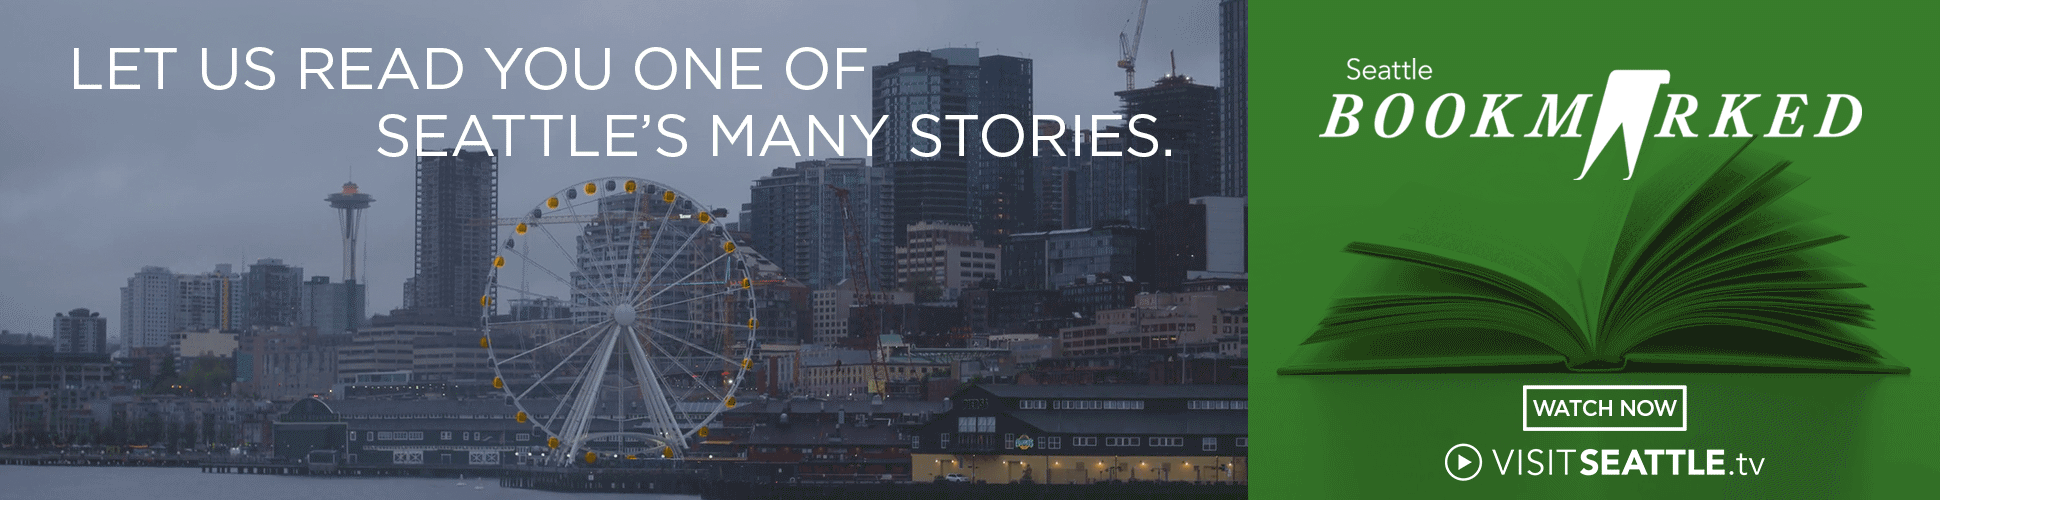
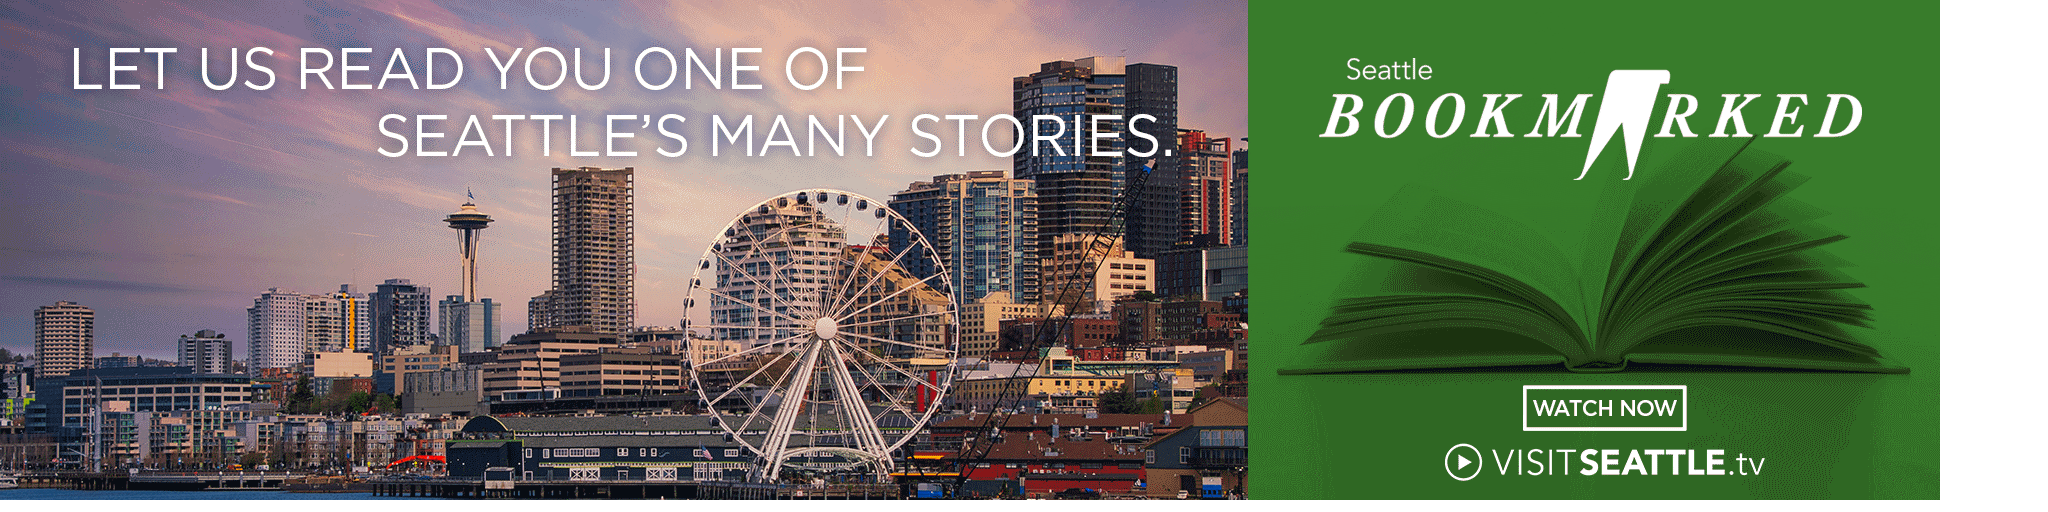
Add files via upload

diff --git a/728x90-wheel/VS_Bookmarked_Wheel_728x90.js b/728x90-wheel/VS_Bookmarked_Wheel_728x90.js
@@ -3,7 +3,7 @@
 var p; // shortcut to reference prototypes
 var lib={};var ss={};var img={};
 lib.ssMetadata = [
-		{name:"VS_Bookmarked_Wheel_728x90_atlas_P_1", frames: [[0,0,728,90],[0,92,728,90]]},
+		{name:"VS_Bookmarked_Wheel_728x90_atlas_P_1", frames: [[0,0,728,90]]},
 		{name:"VS_Bookmarked_Wheel_728x90_atlas_NP_1", frames: [[0,0,444,250]]}
 ];
 
@@ -28,16 +28,9 @@ lib.ssMetadata = [
 
 
 
-(lib._728x90cityscape = function() {
-	this.initialize(ss["VS_Bookmarked_Wheel_728x90_atlas_P_1"]);
-	this.gotoAndStop(0);
-}).prototype = p = new cjs.Sprite();
-
-
-
 (lib._728x90wheel = function() {
 	this.initialize(ss["VS_Bookmarked_Wheel_728x90_atlas_P_1"]);
-	this.gotoAndStop(1);
+	this.gotoAndStop(0);
 }).prototype = p = new cjs.Sprite();
 
 
@@ -123,7 +116,7 @@ if (reversed == null) { reversed = false; }
 	mask.setTransform(592,45);
 
 	// R_jpg
-	this.instance = new lib._728x90cityscape();
+	this.instance = new lib._728x90wheel();
 
 	var maskedShapeInstanceList = [this.instance];
 
@@ -135,12 +128,12 @@ if (reversed == null) { reversed = false; }
 
 	// flare
 	this.instance_1 = new lib.flare();
-	this.instance_1.setTransform(168.85,49.5,0.7505,0.7505);
+	this.instance_1.setTransform(-51.15,49.5,0.7505,0.7505);
 	this.instance_1.alpha = 0;
 	this.instance_1.compositeOperation = "screen";
 	this.instance_1._off = true;
 
-	this.timeline.addTween(cjs.Tween.get(this.instance_1).wait(29).to({_off:false},0).wait(1).to({x:195.1197,alpha:0.0089},0).wait(1).to({x:221.3893,alpha:0.0239},0).wait(1).to({x:247.6589,alpha:0.0511},0).wait(1).to({x:273.9286,alpha:0.1021},0).wait(1).to({x:300.1982,alpha:0.193},0).wait(1).to({x:326.4679,alpha:0.3307},0).wait(1).to({x:352.7,alpha:0.5},0).to({x:562.85,alpha:0},7).to({_off:true},1).wait(30).to({_off:false,x:168.85},0).wait(1).to({x:195.1197,alpha:0.0089},0).wait(1).to({x:221.3893,alpha:0.0239},0).wait(1).to({x:247.6589,alpha:0.0511},0).wait(1).to({x:273.9286,alpha:0.1021},0).wait(1).to({x:300.1982,alpha:0.193},0).wait(1).to({x:326.4679,alpha:0.3307},0).wait(1).to({x:352.7,alpha:0.5},0).to({x:562.85,alpha:0},7).to({_off:true},1).wait(21));
+	this.timeline.addTween(cjs.Tween.get(this.instance_1).wait(29).to({_off:false},0).wait(1).to({x:-24.8804,alpha:0.0089},0).wait(1).to({x:1.3893,alpha:0.0239},0).wait(1).to({x:27.6589,alpha:0.0511},0).wait(1).to({x:53.9286,alpha:0.1021},0).wait(1).to({x:80.1982,alpha:0.193},0).wait(1).to({x:106.4679,alpha:0.3307},0).wait(1).to({x:132.7,alpha:0.5},0).to({x:342.85,alpha:0},7).to({_off:true},1).wait(30).to({_off:false,x:-51.15},0).wait(1).to({x:-24.8804,alpha:0.0089},0).wait(1).to({x:1.3893,alpha:0.0239},0).wait(1).to({x:27.6589,alpha:0.0511},0).wait(1).to({x:53.9286,alpha:0.1021},0).wait(1).to({x:80.1982,alpha:0.193},0).wait(1).to({x:106.4679,alpha:0.3307},0).wait(1).to({x:132.7,alpha:0.5},0).to({x:342.85,alpha:0},7).to({_off:true},1).wait(21));
 
 	// L_jpg
 	this.instance_2 = new lib._728x90wheel();
@@ -161,7 +154,7 @@ if (reversed == null) { reversed = false; }
 	this._renderFirstFrame();
 
 }).prototype = p = new lib.AnMovieClip();
-p.nominalBounds = new cjs.Rectangle(364,0.7,365.5,142.60000000000002);
+p.nominalBounds = new cjs.Rectangle(146.3,0.7,581.7,142.60000000000002);
 // library properties:
 lib.properties = {
 	id: 'A79EFEC4A97F49888D3F6FD01A528C13',
@@ -171,8 +164,8 @@ lib.properties = {
 	color: "#999999",
 	opacity: 1.00,
 	manifest: [
-		{src:"images/VS_Bookmarked_Wheel_728x90_atlas_P_1.png?1688161807516", id:"VS_Bookmarked_Wheel_728x90_atlas_P_1"},
-		{src:"images/VS_Bookmarked_Wheel_728x90_atlas_NP_1.jpg?1688161807516", id:"VS_Bookmarked_Wheel_728x90_atlas_NP_1"}
+		{src:"images/VS_Bookmarked_Wheel_728x90_atlas_P_1.png?1688673544694", id:"VS_Bookmarked_Wheel_728x90_atlas_P_1"},
+		{src:"images/VS_Bookmarked_Wheel_728x90_atlas_NP_1.jpg?1688673544694", id:"VS_Bookmarked_Wheel_728x90_atlas_NP_1"}
 	],
 	preloads: []
 };

diff --git a/970x250-wheel/VS_Bookmarked_Wheel_970x250.html b/970x250-wheel/VS_Bookmarked_Wheel_970x250.html
@@ -19,7 +19,7 @@ var clickTag = "https://visitseattle.org/tv/"; </script>
 <!-- DCM/Google/DoubleClick: Change external scripts URL to 2020 version: <script src="https://s0.2mdn.net/ads/studio/cached_libs/createjs_2019.11.15_min.js"></script> -->
 <!-- Remove garbage after .js -->
 <script src="https://code.createjs.com/1.0.0/createjs.min.js"></script>
-<script src="VS_Bookmarked_Wheel_970x250.js?1688153156170"></script>
+<script src="VS_Bookmarked_Wheel_970x250.js?1688673377246"></script>
 <script>
 var canvas, stage, exportRoot, anim_container, dom_overlay_container, fnStartAnimation;
 function init() {

diff --git a/728x90-wheel/VS_Bookmarked_Wheel_728x90.html b/728x90-wheel/VS_Bookmarked_Wheel_728x90.html
@@ -19,7 +19,7 @@ var clickTag = "https://visitseattle.org/tv/"; </script>
 <!-- DCM/Google/DoubleClick: Change external scripts URL to 2020 version: <script src="https://s0.2mdn.net/ads/studio/cached_libs/createjs_2019.11.15_min.js"></script> -->
 <!-- Remove garbage after .js -->
 <script src="https://code.createjs.com/1.0.0/createjs.min.js"></script>
-<script src="VS_Bookmarked_Wheel_728x90.js?1688161807535"></script>
+<script src="VS_Bookmarked_Wheel_728x90.js?1688673544716"></script>
 <script>
 var canvas, stage, exportRoot, anim_container, dom_overlay_container, fnStartAnimation;
 function init() {

diff --git a/970x250-wheel/VS_Bookmarked_Wheel_970x250.js b/970x250-wheel/VS_Bookmarked_Wheel_970x250.js
@@ -187,8 +187,8 @@ lib.properties = {
 	color: "#999999",
 	opacity: 1.00,
 	manifest: [
-		{src:"images/VS_Bookmarked_Wheel_970x250_atlas_P_1.png?1688153156151", id:"VS_Bookmarked_Wheel_970x250_atlas_P_1"},
-		{src:"images/VS_Bookmarked_Wheel_970x250_atlas_NP_1.jpg?1688153156151", id:"VS_Bookmarked_Wheel_970x250_atlas_NP_1"}
+		{src:"images/VS_Bookmarked_Wheel_970x250_atlas_P_1.png?1688673377218", id:"VS_Bookmarked_Wheel_970x250_atlas_P_1"},
+		{src:"images/VS_Bookmarked_Wheel_970x250_atlas_NP_1.jpg?1688673377218", id:"VS_Bookmarked_Wheel_970x250_atlas_NP_1"}
 	],
 	preloads: []
 };
